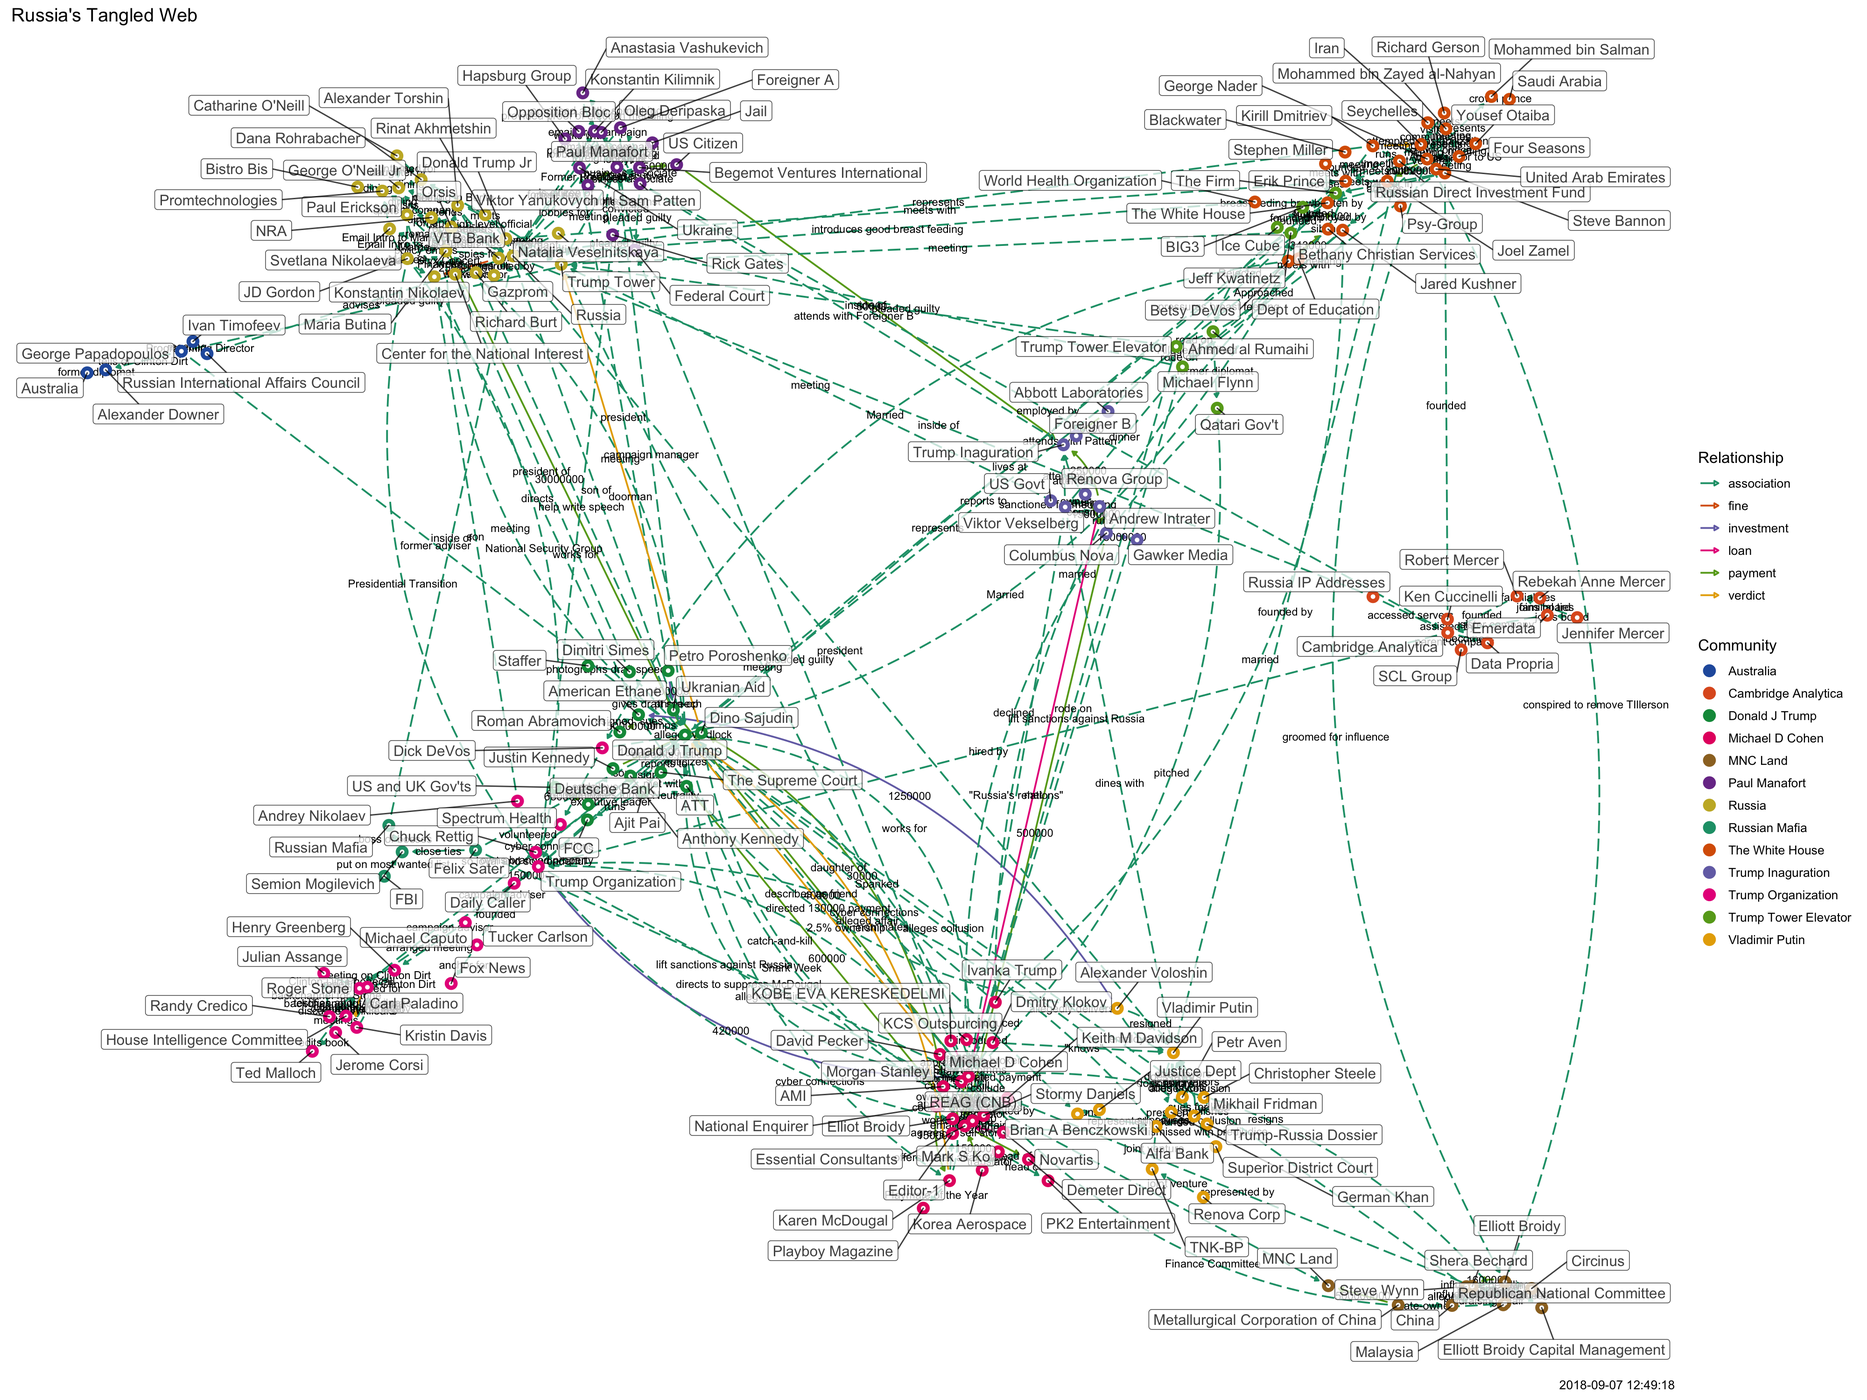
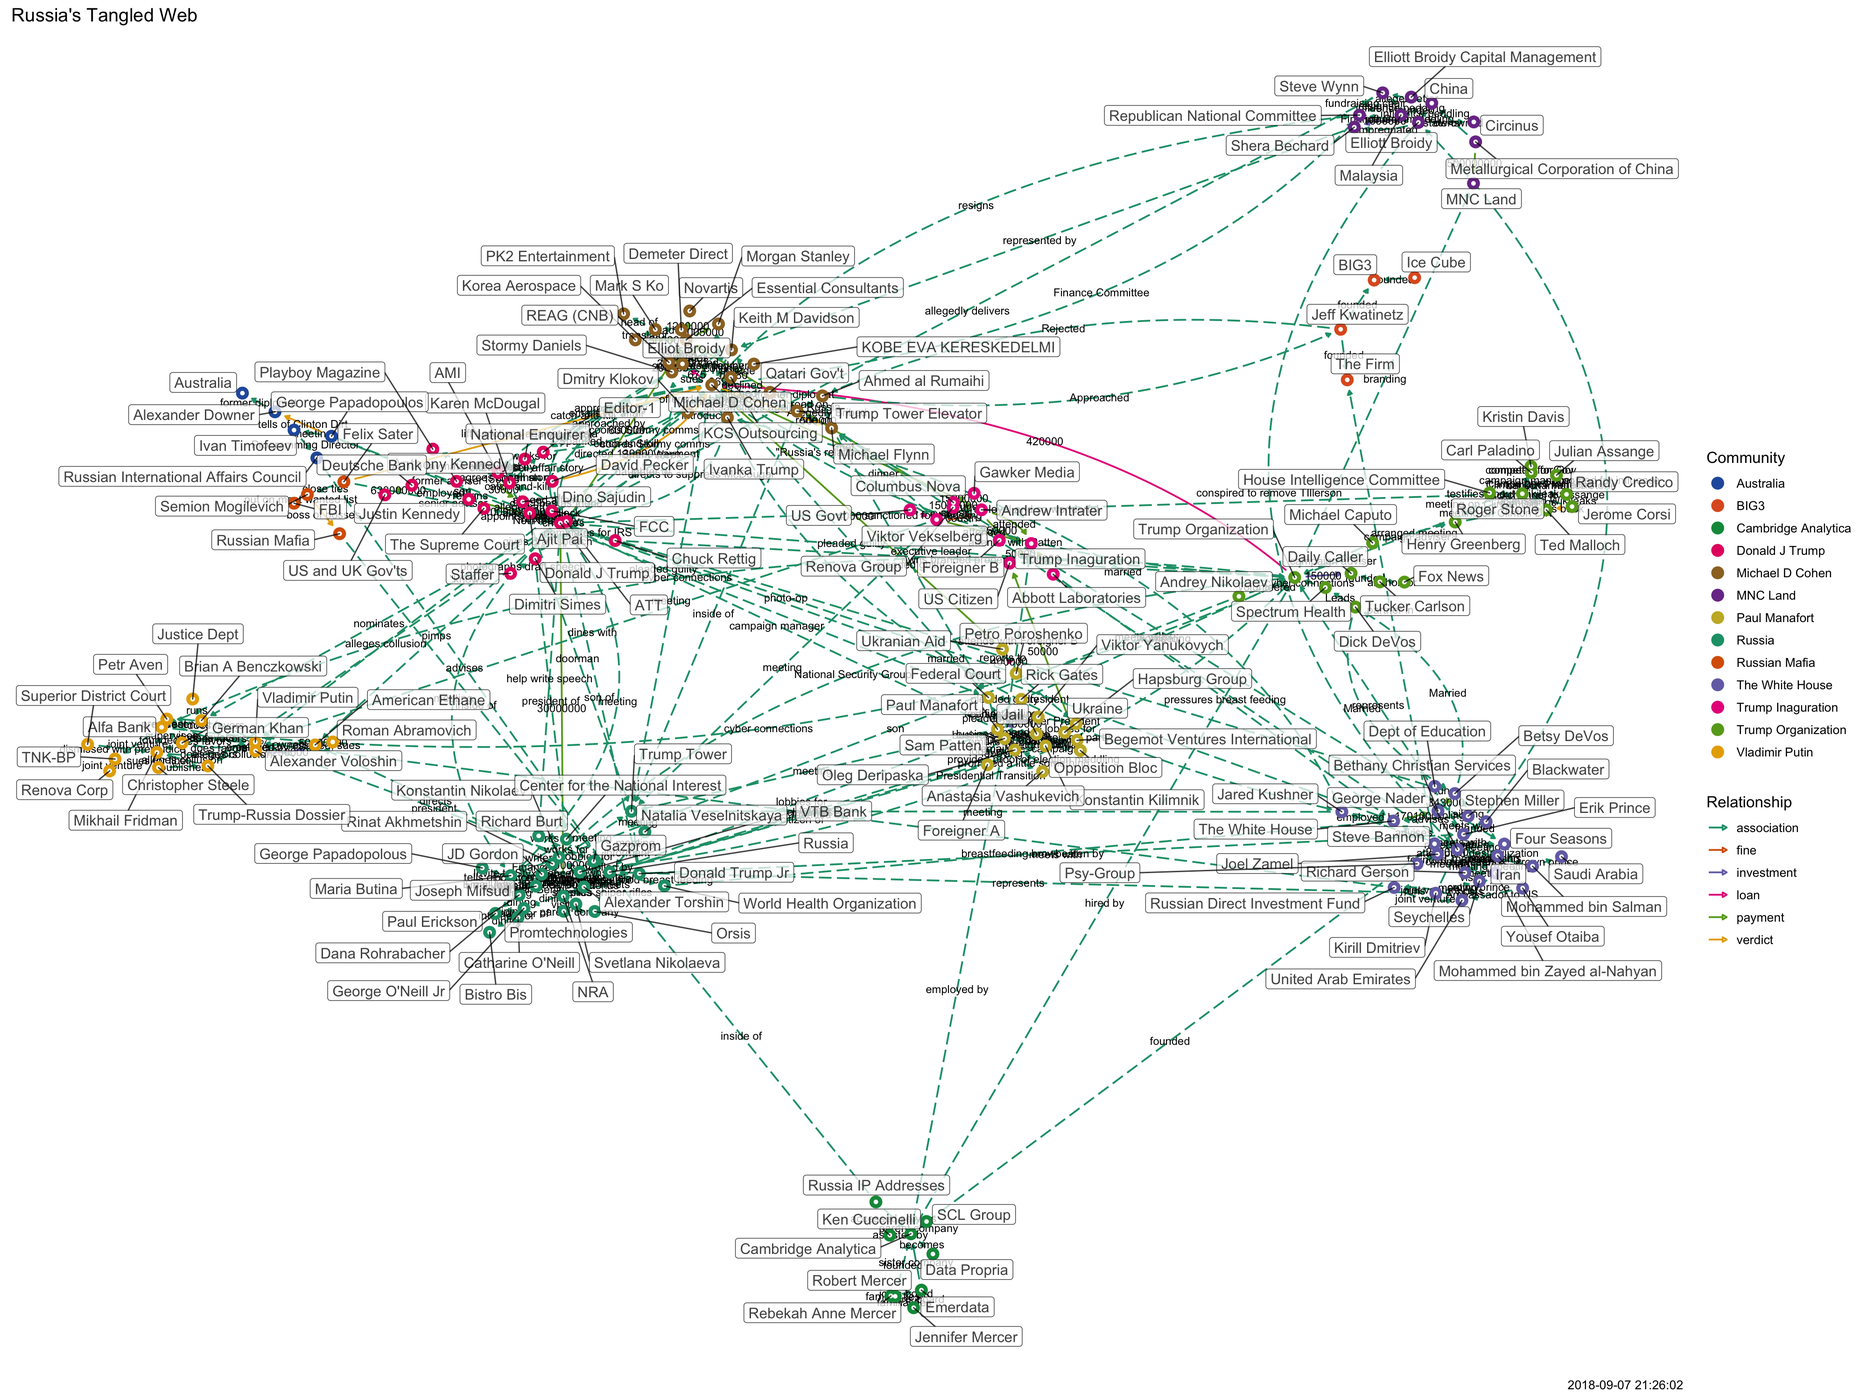
updated

Changed region(s): [[0.0, 0.031, 1.0, 0.992]]

diff --git a/docs/tangled-d3.html b/docs/tangled-d3.html
@@ -1143,11 +1143,11 @@ return function(){for(var n=0,e=0;e<t;++e)n+=Math.random();return n}},um=functio
 </head>
 <body style="background-color: white;">
 <div id="htmlwidget_container">
-<div id="htmlwidget-2a711b9880773b8d5675" class="forceNetwork html-widget" style="width:960px;height:500px;">
+<div id="htmlwidget-a7b0dbab8e296cf81605" class="forceNetwork html-widget" style="width:960px;height:500px;">
 
 </div>
 </div>
-<script type="application/json" data-for="htmlwidget-2a711b9880773b8d5675">{"x":{"links":{"source":[0,1,2,2,3,4,5,6,7,7,8,9,10,10,10,11,12,13,14,15,16,17,18,19,20,21,22,22,23,24,25,26,26,27,28,29,30,31,17,3,3,32,3,32,32,3,33,17,34,32,9,9,9,17,35,35,34,17,17,36,36,36,36,35,17,37,38,38,39,40,39,39,41,38,38,42,42,42,4,41,9,11,11,11,43,43,44,44,17,45,46,46,11,47,48,49,11,11,50,51,49,52,48,11,11,47,49,6,6,6,26,16,21,21,17,32,32,53,54,54,54,54,11,51,37,41,55,55,44,44,56,56,34,34,17,57,58,59,58,60,61,60,58,60,60,47,43,62,63,63,30,20,60,58,35,64,17,65,12,66,35,0,67,68,35,1,1,69,24,70,35,70,71,72,73,61,61,61,74,26,75,76,76,77,35,77,77,78,77,79,78,47,47,78,78,78,77,80,79,81,81,62,82,9,83,57,84,84,84,79,79,84,85,85,86,86,87,88,88,19,85,89,68,90,91,92,90,92,9,9,9,93,93,93,94,95,20,32,35,96,97,97,97,97,37,17,35,98,99,100,17,17,101,98,2,17,35,98,35,98,101,2,102,102,34,99,101,103,103,104,105,106,103,17,71,72,73,107,74,71,108,109,109,109,110,111,60,111,112,111,113,113,111,111,58,111,114,111,41,115,75,116,117,118,119,118,119,120,120,120,121,122,123,124,124,6,125,126,126,127,126,49,126,49,128,127,129,11,130,92,130,131,92,92,92,132,133,92,134,135,136,137,35,77,138,139,139,139,140,120,141],"target":[142,69,102,98,142,10,29,143,10,144,22,83,145,146,34,48,35,17,17,10,147,8,10,35,60,27,10,34,7,69,143,148,17,17,66,142,60,85,10,7,17,23,32,3,142,142,32,35,57,61,149,150,151,146,25,34,35,26,149,145,152,17,15,26,53,53,53,39,38,153,154,153,154,45,37,4,35,155,42,25,11,9,41,43,25,44,43,35,45,17,148,156,49,49,49,157,51,50,158,129,52,25,159,37,160,35,6,49,161,35,147,94,35,162,163,163,17,163,128,51,11,164,164,164,164,164,164,129,17,56,17,61,57,17,57,17,59,162,60,68,68,35,68,165,163,163,163,163,163,68,162,68,58,20,64,26,149,166,65,12,166,25,25,67,69,61,61,1,69,74,70,167,61,61,61,71,72,73,26,74,26,75,68,35,77,68,78,68,79,77,47,78,19,19,68,82,82,82,82,82,80,80,168,83,57,17,77,26,26,77,84,77,77,86,85,89,68,85,26,89,69,87,31,91,92,91,26,26,94,169,93,149,35,149,93,20,95,37,4,60,60,26,96,60,96,96,17,99,100,2,99,101,2,2,17,2,17,35,98,170,35,102,35,163,99,17,17,35,105,105,106,68,17,37,74,74,74,171,171,108,109,35,61,71,71,60,111,112,162,113,111,68,75,96,5,5,142,142,75,75,172,75,75,117,117,115,115,35,96,121,122,68,26,123,6,124,75,49,127,61,68,26,128,128,129,129,127,128,92,173,131,92,35,134,132,133,92,135,135,134,138,136,136,138,68,138,35,140,68,141,174],"colour":["red","blue","red","red","red","red","red","red","red","blue","red","red","red","red","red","red","blue","red","red","red","blue","red","red","blue","blue","red","red","red","blue","blue","red","red","red","red","blue","red","red","blue","blue","blue","blue","blue","blue","blue","blue","blue","blue","blue","blue","blue","blue","blue","blue","blue","blue","blue","blue","blue","blue","blue","blue","blue","blue","blue","blue","blue","blue","blue","blue","blue","blue","blue","blue","blue","blue","blue","blue","blue","blue","blue","blue","blue","blue","blue","blue","blue","blue","blue","blue","blue","blue","blue","blue","blue","blue","blue","blue","blue","blue","blue","blue","blue","blue","blue","blue","blue","blue","blue","blue","blue","blue","blue","blue","blue","blue","blue","blue","blue","blue","blue","blue","blue","blue","blue","blue","blue","blue","blue","blue","blue","blue","blue","blue","blue","blue","blue","blue","blue","blue","blue","blue","blue","blue","blue","blue","blue","blue","blue","blue","blue","blue","blue","blue","blue","blue","blue","blue","blue","blue","blue","blue","blue","blue","blue","blue","blue","blue","blue","blue","blue","blue","blue","blue","blue","blue","blue","blue","blue","blue","blue","blue","blue","blue","blue","blue","blue","blue","blue","blue","blue","blue","blue","blue","blue","blue","blue","blue","blue","blue","blue","blue","blue","blue","blue","blue","blue","blue","blue","blue","blue","blue","blue","blue","blue","blue","blue","blue","blue","blue","blue","blue","blue","blue","blue","blue","blue","blue","blue","blue","blue","blue","blue","blue","blue","blue","blue","blue","blue","blue","blue","blue","blue","blue","blue","blue","blue","blue","blue","blue","blue","blue","blue","blue","blue","blue","blue","blue","blue","blue","blue","blue","blue","blue","blue","blue","blue","blue","blue","blue","blue","blue","blue","blue","blue","blue","blue","blue","blue","blue","blue","blue","blue","blue","blue","blue","blue","blue","blue","blue","blue","blue","blue","blue","blue","blue","blue","blue","blue","blue","blue","blue","blue","blue","blue","blue","blue","blue","blue","blue","blue","blue","blue","blue","blue","blue","blue","blue","blue","blue","blue","blue","blue","blue","blue","blue","blue","blue","blue","blue","blue","blue","blue","blue","blue","blue","blue","blue","blue","blue","blue","blue","blue","blue","blue","blue","blue","blue","blue","blue","blue","blue"]},"nodes":{"name":["Abbott Laboratories","Alexander Voloshin","AMI","Andrew Intrater","ATT","Begemot Ventures International","Betsy DeVos","Columbus Nova","Elliot Broidy","Elliott Broidy","Essential Consultants","George Nader","Justin Kennedy","KCS Outsourcing","KOBE EVA KERESKEDELMI","Korea Aerospace","Metallurgical Corporation of China","Michael D Cohen","Novartis","NRA","Oleg Deripaska","Petro Poroshenko","REAG (CNB)","Renova Group","Roman Abramovich","The White House","Trump Organization","Ukranian Aid","US and UK Gov'ts","US Citizen","Viktor Yanukovych","VTB Bank","Viktor Vekselberg","US Govt","Stormy Daniels","Donald J Trump","Mark S Ko","Michael Flynn","Ahmed al Rumaihi","Jeff Kwatinetz","Ice Cube","Steve Bannon","Ajit Pai","Jared Kushner","Ivanka Trump","Qatari Gov't","Tucker Carlson","Donald Trump Jr","Joel Zamel","Erik Prince","Mohammed bin Salman","Mohammed bin Zayed al-Nahyan","Stephen Miller","Trump Tower Elevator","Richard Gerson","Yousef Otaiba","Dmitry Klokov","Keith M Davidson","Konstantin Kilimnik","Hapsburg Group","Paul Manafort","Vladimir Putin","Rinat Akhmetshin","Natalia Veselnitskaya","Chuck Rettig","Anthony Kennedy","Deutsche Bank","World Health Organization","Russia","American Ethane","Brian A Benczkowski","Mikhail Fridman","German Khan","Petr Aven","Alfa Bank","Cambridge Analytica","Russia IP Addresses","Maria Butina","Alexander Torshin","Paul Erickson","Dana Rohrabacher","Catharine O'Neill","George O'Neill Jr","Shera Bechard","JD Gordon","Konstantin Nikolaev","Svetlana Nikolaeva","Orsis","Andrey Nikolaev","Promtechnologies","Michael Caputo","Henry Greenberg","Roger Stone","Steve Wynn","China","Anastasia Vashukevich","Federal Court","Rick Gates","Karen McDougal","Editor-1","National Enquirer","David Pecker","Dino Sajudin","Felix Sater","FBI","Semion Mogilevich","Russian Mafia","Renova Corp","Christopher Steele","Trump-Russia Dossier","Superior District Court","Sam Patten","Opposition Bloc","Foreigner A","Foreigner B","Robert Mercer","SCL Group","Emerdata","Jennifer Mercer","Rebekah Anne Mercer","George Papadopoulos","Ivan Timofeev","Russian International Affairs Council","Spectrum Health","Dick DeVos","Ken Cuccinelli","Kirill Dmitriev","Russian Direct Investment Fund","Seychelles","United Arab Emirates","Jerome Corsi","Ted Malloch","Randy Credico","Julian Assange","Kristin Davis","Carl Paladino","Dimitri Simes","Staffer","Center for the National Interest","Richard Burt","Gazprom","Alexander Downer","Trump Inaguration","Bethany Christian Services","Gawker Media","Demeter Direct","Morgan Stanley","MNC Land","Daily Caller","Republican National Committee","Elliott Broidy Capital Management","Circinus","PK2 Entertainment","BIG3","The Firm","FCC","Fox News","Blackwater","Saudi Arabia","Psy-Group","Iran","Dept of Education","Ukraine","Trump Tower","Four Seasons","Jail","The Supreme Court","Justice Dept","Bistro Bis","Malaysia","Playboy Magazine","TNK-BP","Data Propria","House Intelligence Committee","Australia"],"group":["9","7","3","9","5","6","1","9","3","8","3","1","5","3","3","3","8","3","3","2","6","5","3","9","5","1","4","5","5","6","6","2","9","9","3","5","3","11","11","11","11","1","5","1","3","11","4","2","1","1","1","1","1","11","1","1","3","3","6","6","6","7","2","2","4","5","5","1","2","5","7","7","7","7","7","10","10","2","2","2","2","2","2","8","2","2","2","2","4","2","4","4","4","8","8","6","6","6","3","3","3","3","5","13","13","13","13","7","7","7","7","6","6","6","9","10","10","10","10","10","12","12","12","4","4","10","1","1","1","1","4","4","4","4","4","4","5","5","2","2","2","12","9","1","9","3","3","8","4","8","8","8","3","11","11","5","4","1","1","1","1","1","6","2","1","6","5","7","2","8","3","7","10","4","12"]},"options":{"NodeID":"name","Group":"group","colourScale":"d3.scaleOrdinal(d3.schemeCategory20);","fontSize":20,"fontFamily":"serif","clickTextSize":50,"linkDistance":50,"linkWidth":"function(d) { return Math.sqrt(d.value); }","charge":-100,"opacity":1,"zoom":true,"legend":false,"arrows":false,"nodesize":false,"radiusCalculation":" Math.sqrt(d.nodesize)+6","bounded":false,"opacityNoHover":1,"clickAction":null}},"evals":[],"jsHooks":[]}</script>
-<script type="application/htmlwidget-sizing" data-for="htmlwidget-2a711b9880773b8d5675">{"viewer":{"width":450,"height":350,"padding":10,"fill":true},"browser":{"width":960,"height":500,"padding":10,"fill":true}}</script>
+<script type="application/json" data-for="htmlwidget-a7b0dbab8e296cf81605">{"x":{"links":{"source":[0,1,2,2,3,4,5,6,7,7,8,9,10,10,10,11,12,13,14,15,16,17,18,19,20,21,22,22,23,24,25,26,26,27,28,29,30,31,17,3,3,32,3,32,32,3,33,17,34,32,9,9,9,17,35,35,34,17,17,36,36,36,36,35,17,37,38,38,39,40,39,39,41,38,38,42,42,42,4,41,9,11,11,11,43,43,44,44,17,45,46,46,11,47,48,49,11,11,50,51,49,52,48,11,11,47,49,6,6,6,26,16,21,21,17,32,32,53,54,54,54,54,11,51,37,41,55,55,44,44,56,56,34,34,17,57,58,59,58,60,61,60,58,60,60,47,43,62,63,63,30,20,60,58,35,64,17,65,12,66,35,0,67,68,35,1,1,69,24,70,35,70,71,72,73,61,61,61,74,26,75,76,76,77,35,77,77,78,77,79,78,47,47,78,78,78,77,80,79,81,81,62,82,9,83,57,84,84,84,79,79,84,85,85,86,86,87,88,88,19,85,89,68,90,91,92,90,92,9,9,9,93,93,93,94,95,20,32,35,96,97,97,97,97,37,17,35,98,99,100,17,17,101,98,2,17,35,98,35,98,101,2,102,102,34,99,101,103,103,104,105,106,103,17,71,72,73,107,74,71,108,109,109,109,110,111,60,111,112,111,113,113,111,111,58,111,114,111,41,115,75,116,117,118,119,118,119,120,120,120,121,122,123,124,124,6,125,126,126,127,126,49,126,49,128,127,129,11,130,92,130,131,92,92,92,132,133,92,134,135,136,137,35,77,138,139,139,139,140,120,141,142,142],"target":[143,69,102,98,143,10,29,144,10,145,22,83,146,147,34,48,35,17,17,10,148,8,10,35,60,27,10,34,7,69,144,149,17,17,66,143,60,85,10,7,17,23,32,3,143,143,32,35,57,61,150,151,152,147,25,34,35,26,150,146,153,17,15,26,53,53,53,39,38,154,155,154,155,45,37,4,35,156,42,25,11,9,41,43,25,44,43,35,45,17,149,157,49,49,49,158,51,50,159,129,52,25,160,37,161,35,6,49,162,35,148,94,35,163,164,164,17,164,128,51,11,165,165,165,165,165,165,129,17,56,17,61,57,17,57,17,59,163,60,68,68,35,68,166,164,164,164,164,164,68,163,68,58,20,64,26,150,167,65,12,167,25,25,67,69,61,61,1,69,74,70,168,61,61,61,71,72,73,26,74,26,75,68,35,77,68,78,68,79,77,47,78,19,19,68,82,82,82,82,82,80,80,169,83,57,17,77,26,26,77,84,77,77,86,85,89,68,85,26,89,69,87,31,91,92,91,26,26,94,170,93,150,35,150,93,20,95,37,4,60,60,26,96,60,96,96,17,99,100,2,99,101,2,2,17,2,17,35,98,171,35,102,35,164,99,17,17,35,105,105,106,68,17,37,74,74,74,172,172,108,109,35,61,71,71,60,111,112,163,113,111,68,75,96,5,5,143,143,75,75,173,75,75,117,117,115,115,35,96,121,122,68,26,123,6,124,75,49,127,61,68,26,128,128,129,129,127,128,92,174,131,92,35,134,132,133,92,135,135,134,138,136,136,138,68,138,35,140,68,141,175,176,68],"colour":["red","blue","red","red","red","red","red","red","red","blue","red","red","red","red","red","red","blue","red","red","red","blue","red","red","blue","blue","red","red","red","blue","blue","red","red","red","red","blue","red","red","blue","blue","blue","blue","blue","blue","blue","blue","blue","blue","blue","blue","blue","blue","blue","blue","blue","blue","blue","blue","blue","blue","blue","blue","blue","blue","blue","blue","blue","blue","blue","blue","blue","blue","blue","blue","blue","blue","blue","blue","blue","blue","blue","blue","blue","blue","blue","blue","blue","blue","blue","blue","blue","blue","blue","blue","blue","blue","blue","blue","blue","blue","blue","blue","blue","blue","blue","blue","blue","blue","blue","blue","blue","blue","blue","blue","blue","blue","blue","blue","blue","blue","blue","blue","blue","blue","blue","blue","blue","blue","blue","blue","blue","blue","blue","blue","blue","blue","blue","blue","blue","blue","blue","blue","blue","blue","blue","blue","blue","blue","blue","blue","blue","blue","blue","blue","blue","blue","blue","blue","blue","blue","blue","blue","blue","blue","blue","blue","blue","blue","blue","blue","blue","blue","blue","blue","blue","blue","blue","blue","blue","blue","blue","blue","blue","blue","blue","blue","blue","blue","blue","blue","blue","blue","blue","blue","blue","blue","blue","blue","blue","blue","blue","blue","blue","blue","blue","blue","blue","blue","blue","blue","blue","blue","blue","blue","blue","blue","blue","blue","blue","blue","blue","blue","blue","blue","blue","blue","blue","blue","blue","blue","blue","blue","blue","blue","blue","blue","blue","blue","blue","blue","blue","blue","blue","blue","blue","blue","blue","blue","blue","blue","blue","blue","blue","blue","blue","blue","blue","blue","blue","blue","blue","blue","blue","blue","blue","blue","blue","blue","blue","blue","blue","blue","blue","blue","blue","blue","blue","blue","blue","blue","blue","blue","blue","blue","blue","blue","blue","blue","blue","blue","blue","blue","blue","blue","blue","blue","blue","blue","blue","blue","blue","blue","blue","blue","blue","blue","blue","blue","blue","blue","blue","blue","blue","blue","blue","blue","blue","blue","blue","blue","blue","blue","blue","blue","blue","blue","blue","blue","blue","blue","blue","blue","blue","blue","blue","blue","blue","blue","blue","blue","blue","blue","blue","blue","blue","blue","blue","blue","blue","blue","blue","blue","blue","blue"]},"nodes":{"name":["Abbott Laboratories","Alexander Voloshin","AMI","Andrew Intrater","ATT","Begemot Ventures International","Betsy DeVos","Columbus Nova","Elliot Broidy","Elliott Broidy","Essential Consultants","George Nader","Justin Kennedy","KCS Outsourcing","KOBE EVA KERESKEDELMI","Korea Aerospace","Metallurgical Corporation of China","Michael D Cohen","Novartis","NRA","Oleg Deripaska","Petro Poroshenko","REAG (CNB)","Renova Group","Roman Abramovich","The White House","Trump Organization","Ukranian Aid","US and UK Gov'ts","US Citizen","Viktor Yanukovych","VTB Bank","Viktor Vekselberg","US Govt","Stormy Daniels","Donald J Trump","Mark S Ko","Michael Flynn","Ahmed al Rumaihi","Jeff Kwatinetz","Ice Cube","Steve Bannon","Ajit Pai","Jared Kushner","Ivanka Trump","Qatari Gov't","Tucker Carlson","Donald Trump Jr","Joel Zamel","Erik Prince","Mohammed bin Salman","Mohammed bin Zayed al-Nahyan","Stephen Miller","Trump Tower Elevator","Richard Gerson","Yousef Otaiba","Dmitry Klokov","Keith M Davidson","Konstantin Kilimnik","Hapsburg Group","Paul Manafort","Vladimir Putin","Rinat Akhmetshin","Natalia Veselnitskaya","Chuck Rettig","Anthony Kennedy","Deutsche Bank","World Health Organization","Russia","American Ethane","Brian A Benczkowski","Mikhail Fridman","German Khan","Petr Aven","Alfa Bank","Cambridge Analytica","Russia IP Addresses","Maria Butina","Alexander Torshin","Paul Erickson","Dana Rohrabacher","Catharine O'Neill","George O'Neill Jr","Shera Bechard","JD Gordon","Konstantin Nikolaev","Svetlana Nikolaeva","Orsis","Andrey Nikolaev","Promtechnologies","Michael Caputo","Henry Greenberg","Roger Stone","Steve Wynn","China","Anastasia Vashukevich","Federal Court","Rick Gates","Karen McDougal","Editor-1","National Enquirer","David Pecker","Dino Sajudin","Felix Sater","FBI","Semion Mogilevich","Russian Mafia","Renova Corp","Christopher Steele","Trump-Russia Dossier","Superior District Court","Sam Patten","Opposition Bloc","Foreigner A","Foreigner B","Robert Mercer","SCL Group","Emerdata","Jennifer Mercer","Rebekah Anne Mercer","George Papadopoulos","Ivan Timofeev","Russian International Affairs Council","Spectrum Health","Dick DeVos","Ken Cuccinelli","Kirill Dmitriev","Russian Direct Investment Fund","Seychelles","United Arab Emirates","Jerome Corsi","Ted Malloch","Randy Credico","Julian Assange","Kristin Davis","Carl Paladino","Dimitri Simes","Staffer","Center for the National Interest","Richard Burt","Gazprom","Alexander Downer","Joseph Mifsud","Trump Inaguration","Bethany Christian Services","Gawker Media","Demeter Direct","Morgan Stanley","MNC Land","Daily Caller","Republican National Committee","Elliott Broidy Capital Management","Circinus","PK2 Entertainment","BIG3","The Firm","FCC","Fox News","Blackwater","Saudi Arabia","Psy-Group","Iran","Dept of Education","Ukraine","Trump Tower","Four Seasons","Jail","The Supreme Court","Justice Dept","Bistro Bis","Malaysia","Playboy Magazine","TNK-BP","Data Propria","House Intelligence Committee","Australia","George Papadopolous"],"group":["8","7","4","8","4","6","2","8","3","9","3","2","4","3","3","3","9","3","3","1","6","6","3","8","7","2","5","6","4","8","6","1","8","8","3","4","3","3","3","13","13","2","4","2","3","3","5","1","2","2","2","2","2","3","2","2","3","3","6","6","6","7","1","1","4","4","4","1","1","7","7","7","7","7","7","10","10","1","1","1","1","1","1","9","1","1","1","1","5","1","5","5","5","9","9","6","6","6","4","4","4","4","4","12","12","12","12","7","7","7","7","6","6","6","8","10","10","10","10","10","11","11","11","5","5","10","2","2","2","2","5","5","5","5","5","5","4","4","1","1","1","11","1","8","2","8","3","3","9","5","9","9","9","3","13","13","4","5","2","2","2","2","2","6","1","2","6","4","7","1","9","4","7","10","5","11","1"]},"options":{"NodeID":"name","Group":"group","colourScale":"d3.scaleOrdinal(d3.schemeCategory20);","fontSize":20,"fontFamily":"serif","clickTextSize":50,"linkDistance":50,"linkWidth":"function(d) { return Math.sqrt(d.value); }","charge":-100,"opacity":1,"zoom":true,"legend":false,"arrows":false,"nodesize":false,"radiusCalculation":" Math.sqrt(d.nodesize)+6","bounded":false,"opacityNoHover":1,"clickAction":null}},"evals":[],"jsHooks":[]}</script>
+<script type="application/htmlwidget-sizing" data-for="htmlwidget-a7b0dbab8e296cf81605">{"viewer":{"width":450,"height":350,"padding":10,"fill":true},"browser":{"width":960,"height":500,"padding":10,"fill":true}}</script>
 </body>
 </html>
